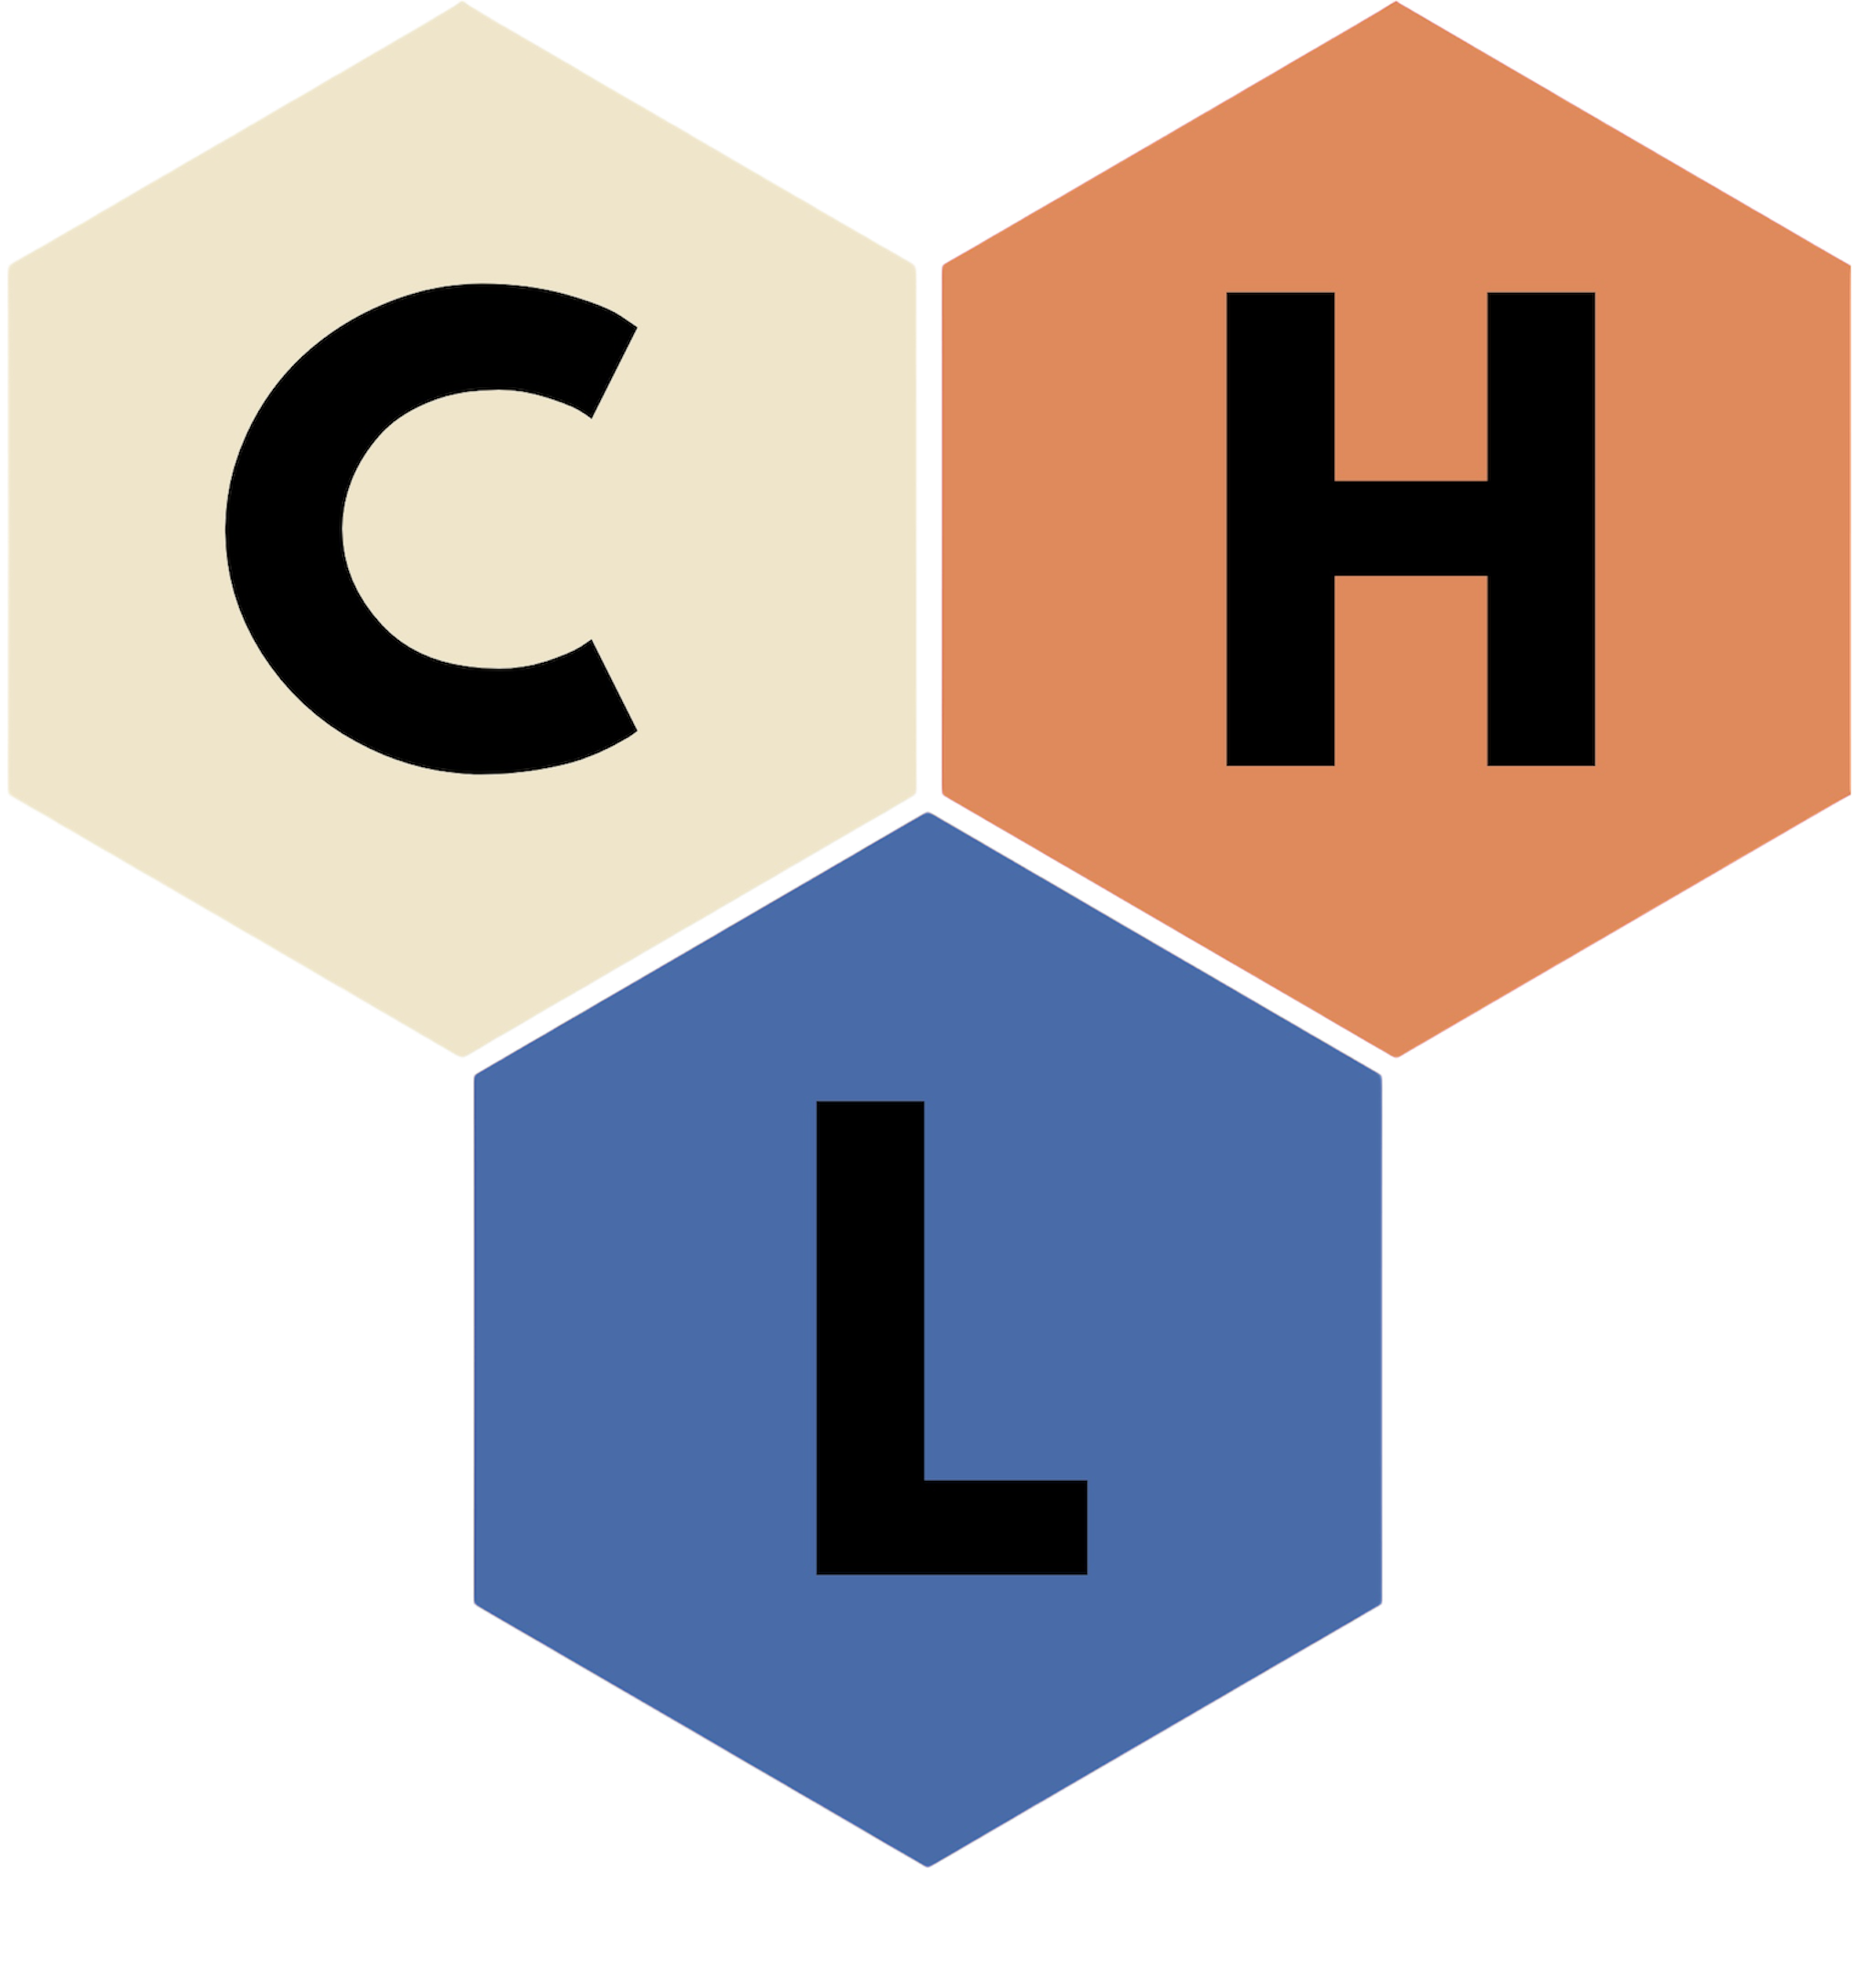
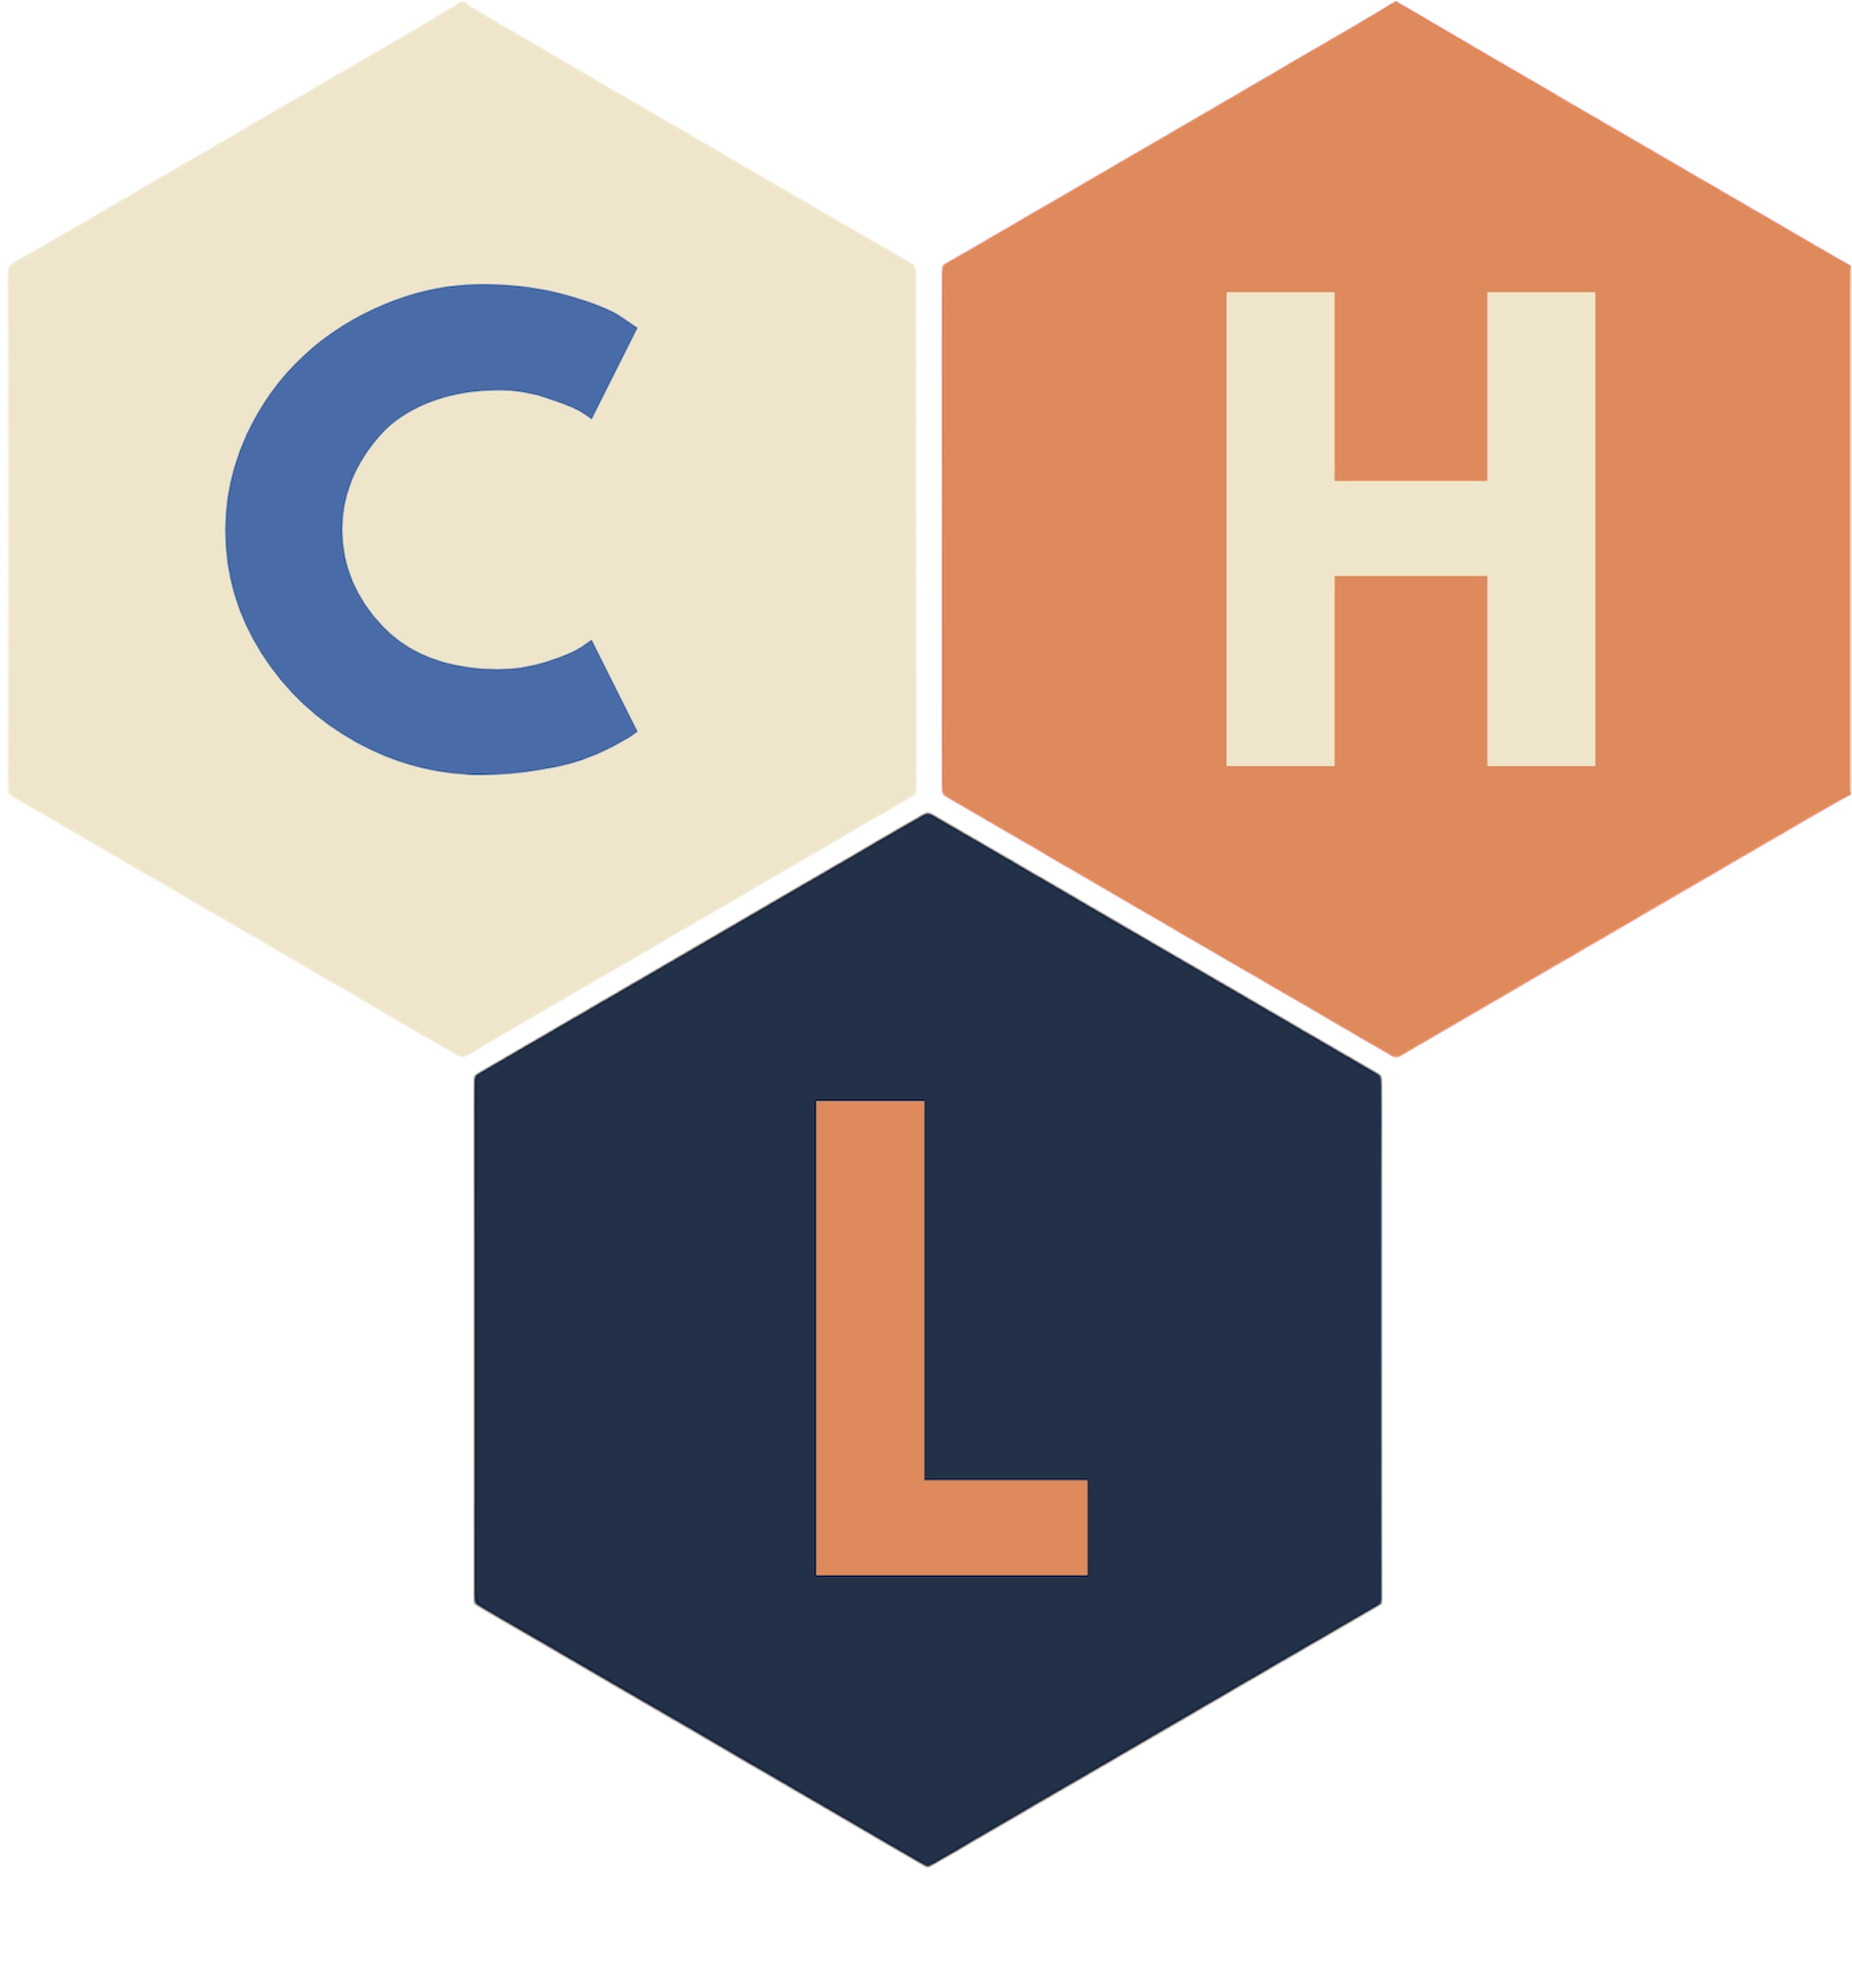
Add credits button and screen; update color definitions

Changed region(s): [[0.2485, 0.4027, 0.7456, 0.9602], [0.6524, 0.1239, 0.8698, 0.4027], [0.1243, 0.1239, 0.3417, 0.4027]]

diff --git a/inicio.py b/inicio.py
@@ -14,8 +14,8 @@ except Exception:
 # Configuración de la ventana
 WHITE = (255, 255, 255)
 BLUE = (30, 144, 255)
-TITLE_COLOR = (34, 49, 73)  # #223149
-GRAY = (200, 200, 200)
+TITLE_COLOR = (34, 49, 73)  # #223149 (reverted)
+GRAY = (238, 229, 202)  # #EEE5CA
 BLACK = (0, 0, 0)
 
 pygame.init()
@@ -62,6 +62,9 @@ exit_h = int(button_height * 0.8)
 margin = max(20, int(WIDTH * 0.02))
 exit_button_rect = pygame.Rect(WIDTH - exit_w - margin, HEIGHT - exit_h - margin, exit_w, exit_h)
 
+# Credits button placed under the horizontal buttons, centered
+credits_button_rect = pygame.Rect((WIDTH - button_width) // 2, HEIGHT // 2 + button_height + 20, button_width, button_height)
+
 
 def draw_button(rect, text):
     # Create a surface with per-pixel alpha for semi-transparent button
@@ -69,7 +72,8 @@ def draw_button(rect, text):
     alpha_color = (*GRAY, 180)  # RGBA: last value is alpha (0-255)
     pygame.draw.rect(surf, alpha_color, surf.get_rect(), border_radius=10)
     screen.blit(surf, rect.topleft)
-    txt = font_button.render(text, True, BLACK)
+    # Use title color for button text to match the title (except Exit button)
+    txt = font_button.render(text, True, TITLE_COLOR)
     txt_rect = txt.get_rect(center=rect.center)
     screen.blit(txt, txt_rect)
 
@@ -77,7 +81,7 @@ def draw_button(rect, text):
 def draw_exit_button(rect, text):
     # Semi-transparent exit button
     surf = pygame.Surface((rect.width, rect.height), pygame.SRCALPHA)
-    exit_color = (180, 20, 0)
+    exit_color = (223, 138, 93)  # #DF8A5D
     alpha_color = (*exit_color, 180)
     pygame.draw.rect(surf, alpha_color, surf.get_rect(), border_radius=10)
     screen.blit(surf, rect.topleft)
@@ -110,6 +114,37 @@ def load_gif_frames_with_pillow(path):
     except Exception:
         pass
     return frames
+
+
+def credits_screen(screen):
+    """Simple credits screen: shows some text and returns to main when any key or mouse button is pressed."""
+    clock = pygame.time.Clock()
+    small_font = pygame.font.SysFont(None, 30)
+    title_font = pygame.font.SysFont(None, 40)
+    lines = ["Credits", "Developed by: (put your name here)", "Assets: NASA / internal", "Press any key or click to return"]
+    while True:
+        clock.tick(60)
+        for event in pygame.event.get():
+            if event.type == pygame.QUIT:
+                pygame.quit()
+                sys.exit()
+            elif event.type == pygame.KEYDOWN or (event.type == pygame.MOUSEBUTTONDOWN and event.button == 1):
+                return
+
+        # Draw background
+        screen.fill(WHITE)
+
+        y = HEIGHT // 4
+        for i, line in enumerate(lines):
+            if i == 0:
+                txt = title_font.render(line, True, TITLE_COLOR)
+            else:
+                txt = small_font.render(line, True, BLACK)
+            rect = txt.get_rect(center=(WIDTH // 2, y))
+            screen.blit(txt, rect)
+            y += 50
+
+        pygame.display.flip()
 
 
 def main():
@@ -214,6 +249,7 @@ def main():
         screen.blit(title_text, title_rect)
         draw_button(button1_rect, "Habitat simulation")
         draw_button(button2_rect, "See habitat")
+        draw_button(credits_button_rect, "Credits")
         draw_exit_button(exit_button_rect, "Exit")
 
         for event in pygame.event.get():
@@ -228,6 +264,8 @@ def main():
                 elif exit_button_rect.collidepoint(event.pos):
                     pygame.quit()
                     sys.exit()
+                elif credits_button_rect.collidepoint(event.pos):
+                    credits_screen(screen)
             elif event.type == pygame.KEYDOWN:
                 if event.key == pygame.K_ESCAPE:
                     pygame.quit()
